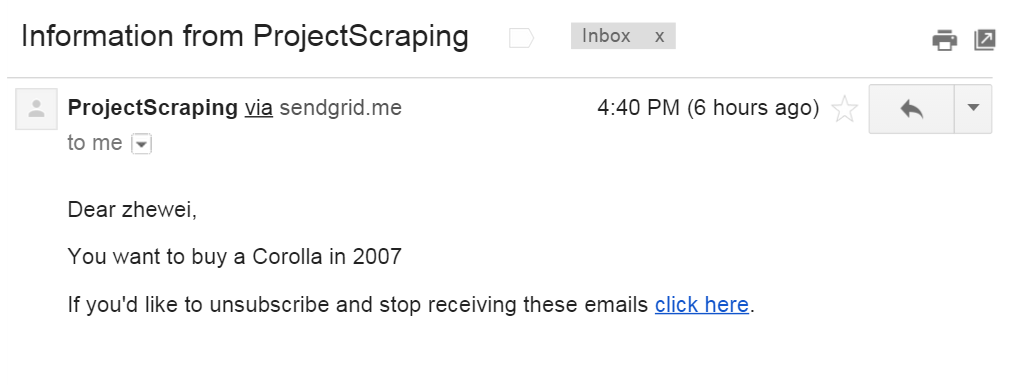
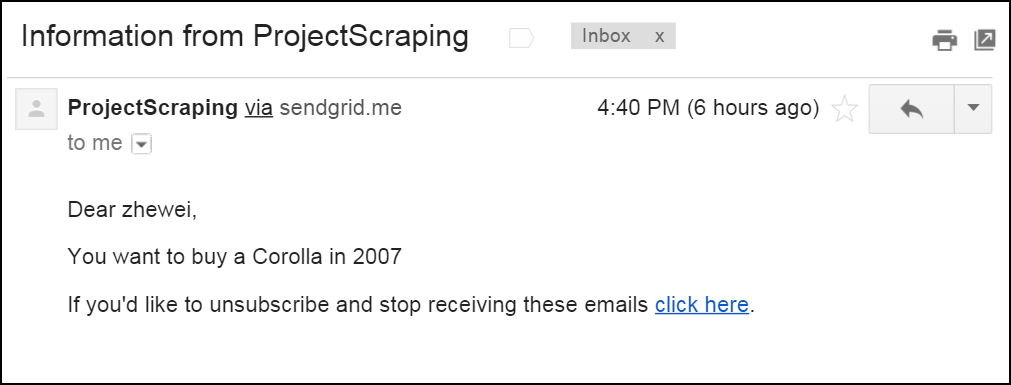
add img

Changed region(s): [[0.0, 0.0, 1.0, 1.0]]

diff --git a/slides/talk1.md b/slides/talk1.md
@@ -61,3 +61,10 @@ We will develop this website using self-developed Python regular expression and 
 - We make use some restrictions to ensure the data collected from users is 100 percent right.
 - When user click button, his/her data will store in database.
 
+#Email Service
+
+<img align=left src="../img/Email service.png">
+
+- If users already subscribed email service, we will send them email once per day.
+- Users can unsubscribe, if he/she have already found suitable car.
+- Email above is just an sample email. We will send specific car prices information to users.
